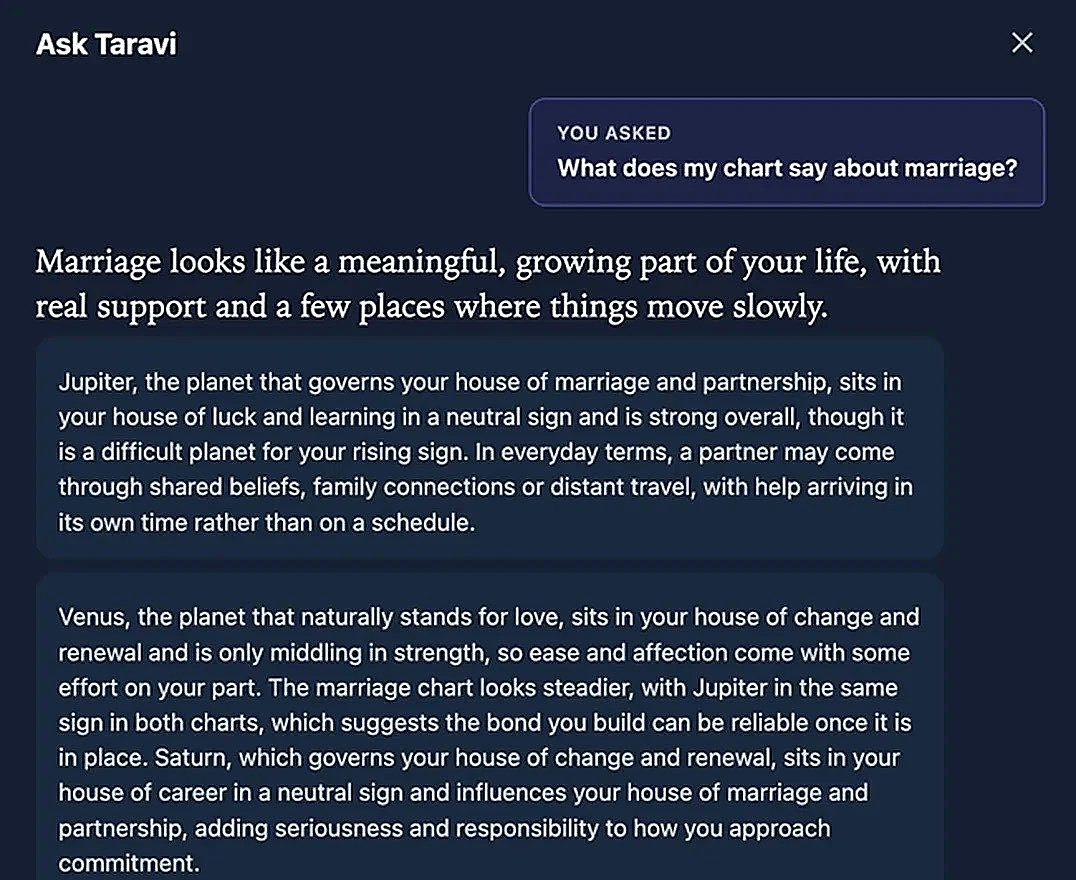
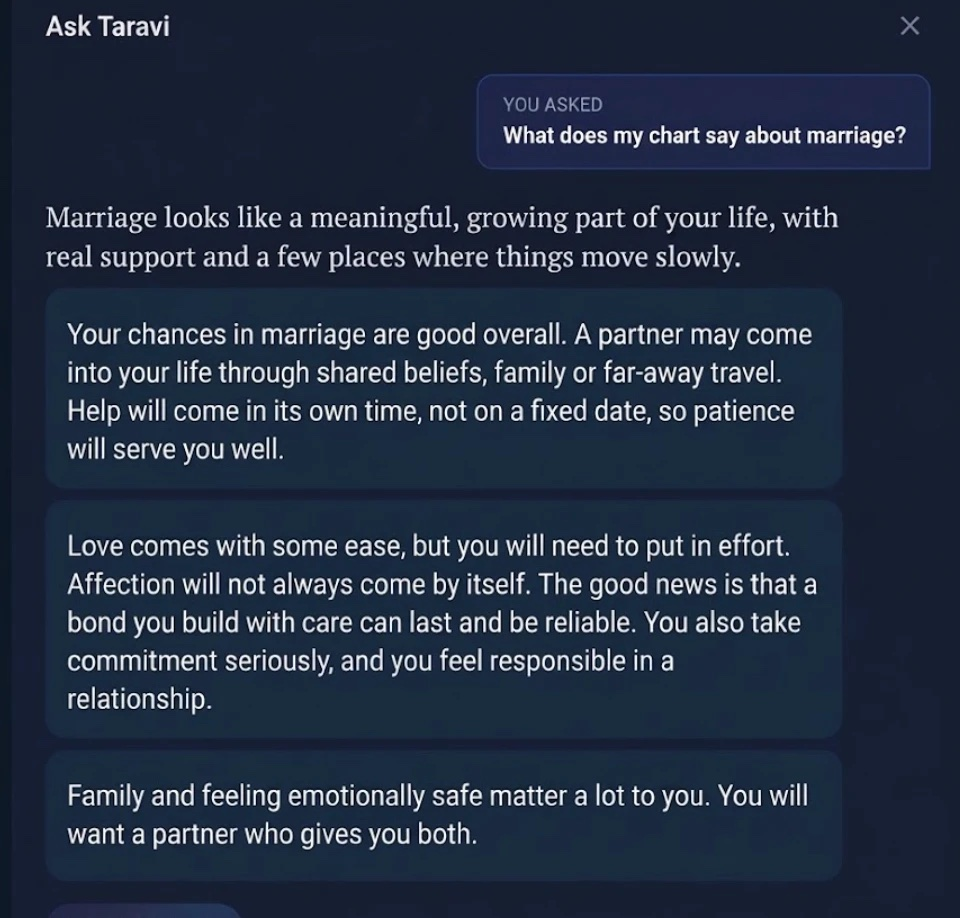
Site: new plain-English Ask answer image (owner)

Changed region(s): [[0.0312, 0.0, 0.9688, 1.0], [0.0312, 0.0, 0.1875, 0.0614]]

diff --git a/index.html b/index.html
@@ -39,7 +39,7 @@
     <li class="arrow" aria-hidden="true">›</li>
     <li><span class="num">2</span><h3>Code calculates your chart</h3><p>Every planet, house and timing period is worked out by fixed calculations. No guessing.</p><div class="step-card solar"><picture><source media="(prefers-reduced-motion: reduce)" srcset="images/solar-system-still.svg"><img src="images/solar-system-live.svg" width="300" height="300" loading="lazy" alt="Illustration: planets orbiting the Sun"></picture><span class="pill">Illustration: our solar system</span></div></li>
     <li class="arrow" aria-hidden="true">›</li>
-    <li><span class="num">3</span><h3>AI explains it in plain words</h3><p>Clear, kind answers, and every answer is checked against your chart.</p><div class="step-card"><img src="images/ask.jpg" width="1076" height="880" loading="lazy" alt="Taravi Ask screen answering a question about marriage"></div></li>
+    <li><span class="num">3</span><h3>AI explains it in plain words</h3><p>Clear, kind answers, and every answer is checked against your chart.</p><div class="step-card"><img src="images/ask.jpg?v=2" width="960" height="918" loading="lazy" alt="Taravi Ask screen answering a question about marriage"></div></li>
   </ol>
   <ul class="trust">
     <li><svg viewBox="0 0 24 24" width="20" height="20" aria-hidden="true"><path d="M8 4h8v16H8zM11 8h2M11 12h2M11 16h2" fill="none" stroke="currentColor" stroke-width="1.8" stroke-linecap="round" stroke-linejoin="round"/></svg>Code calculates the chart</li>
@@ -67,7 +67,7 @@
     <div class="ft-panels">
       <div class="ft-panel" role="tabpanel" id="panel-ask" aria-labelledby="tab-ask" tabindex="0">
         <div class="ft-text"><h3>Ask anything about your life</h3><p>Ask in your own words and get a clear, kind answer from your chart.</p><div class="ft-frame ft-mini"><div class="bar" aria-hidden="true"><i></i><i></i><i></i></div><img src="images/ask-try.jpg" width="1000" height="667" alt="Taravi Ask panel with Try asking question suggestions"></div></div>
-        <div class="ft-frame"><div class="bar" aria-hidden="true"><i></i><i></i><i></i></div><div class="ft-scroll"><img src="images/ask.jpg" width="1076" height="880" alt="Taravi Ask screen answering a question about marriage"></div></div>
+        <div class="ft-frame"><div class="bar" aria-hidden="true"><i></i><i></i><i></i></div><div class="ft-scroll"><img src="images/ask.jpg?v=2" width="960" height="918" alt="Taravi Ask screen answering a question about marriage"></div></div>
       </div>
       <div class="ft-panel" role="tabpanel" id="panel-my-life" aria-labelledby="tab-my-life" tabindex="0">
         <div class="ft-text"><h3>See how each area of life is going</h3><p>Today, this week and this year, each with a simple rating. Every rating has a “Why?” you can open.</p></div>
